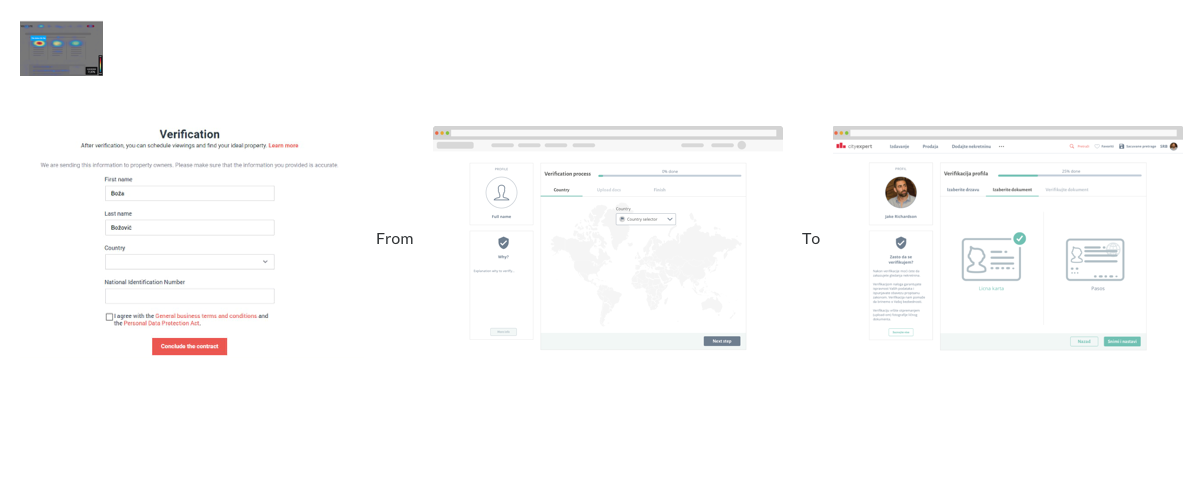
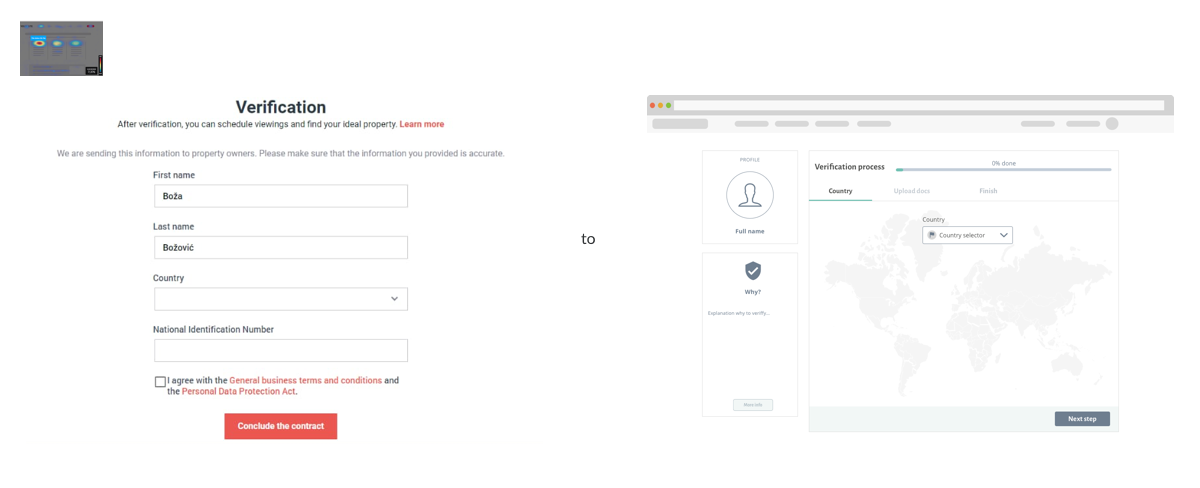
Update

diff --git a/src/pages/index.js b/src/pages/index.js
@@ -47,8 +47,8 @@ const IndexPage = () => (
 
       <Project
           image={require('../images/DSinFigma.png')}
-          title="Design System is moved to Figma"
-          subtitle="Our team becomes international, spreanding on 3 continents and including 3 more products. We decided that in time of merger the best tool for collaboration and remote work would be Figma. I've ported the design system to Figma with the organization of the projects and features in the tools."
+          title="Design System is transalted to Figma"
+          subtitle="Our team becomes international, spreanding on 3 continents and including 3 more products. Currently working on a brand new stuff that will be a northStar for rest of the products. I've ported the design system to Figma with the organization of the projects and features in the tools."
           button="Coming soon"
           link="/"
           target="_self"/>
@@ -56,7 +56,7 @@ const IndexPage = () => (
         <Project
           image={require('../images/xebialabs.png')}
           title="XebiaLabs, Hilversum"
-          subtitle="For the past 2 years, I was working with XebiaLabs on XL Release and XL Deploy DevOps products. That employment helped me grow and become better UX researcher, designer and more valuable team member."
+          subtitle="For the past 2 years, I was working with XebiaLabs on XL Release and XL Deploy DevOps at scale products. Take a peek at couple of improvments that took place inside of XebiLabs and my approach in solving challanges."
           button="Find out more"
           link="/XebiaLabs"
           target="_self"/>
@@ -72,7 +72,7 @@ const IndexPage = () => (
         <Project
           image={require('../images/CityExpert.png')}
           title="CityExpert, Belgrade"
-          subtitle="I was working with CityExpert Serbian startup as UI/UX designer and consultant. City Expert is online real-estate agency from Belgrade. It was a great experience to use a data-driven approach in user testing!"
+          subtitle="I was working with CityExpert Serbian startup as UI/UX designer and consultant. City Expert is online real-estate agency from Belgrade. It was a great experience to use a data-driven approach in user testing ans set in stone their design language!"
           button="Find out more"
           link="/CityExpert"
           target="_self"/>
@@ -80,7 +80,7 @@ const IndexPage = () => (
         <Project
           image={require('../images/CONDA.png')}
           title="CONDA, Vienna"
-          subtitle="CONDA is more than a crowd investing platform. CONDA is the connecting link between entrepreneurs and investors based on blockchain technology, and while working with CONDA, I've learned a lot about FinTech."
+          subtitle="CONDA is one more company that I used to work with. Help them standardise components and make 2 great products. Platform and B2B CMS. CONDA is the connecting link between entrepreneurs and investors based on blockchain technology, thanks to CONDA, I've learned a lot about FinTech."
           button="Find out more"
           link="/Conda"
           target="_self"/>

diff --git a/src/pages/CityExpert.js b/src/pages/CityExpert.js
@@ -27,13 +27,13 @@ const CityExper = () => (
     <h4>The solution</h4>
     <p>We took into consideration the responses we received from users and split verification into 2 simple steps. Choosing the country and based on the country provided by users, uploader with specific documents would be rendered by country. Every step is guiding a user with a short explanation of what is necessary actions to complete the step.</p>
     <div id="Images"><img src={require('../images/CE-Verifikacion.png')}/></div>
+    <div id="ImagesFull"><img src={require('../images/VerificationProcessEndResult.png')}/></div>
 
-    <h2>Set up the "Design system"</h2>
-    <h4>1. Redesign and update Design system</h4>
+    <h2>Consistancy accross the portals</h2>
+    <h4>Challenge</h4>
     <p>We needed to work fast, so I have set up the design system (correct name is Pattern library inside of Sketch).</p>
     <div id="Images"><img src={require('../images/CE_Design_System.png')}/></div>
-    <h4>Font pairings</h4>
-    <div id="Images"><img src={require('../images/CEFontPairings.png')}/></div>
+    <div id="Images"><img src={require('../images/CEcolors.png')}/></div>
     
     <h2>Redesigning pages by using new "Design system"</h2>
     <h4>1. Redesign real-estate page</h4>

diff --git a/src/components/Projects/Project.css b/src/components/Projects/Project.css
@@ -67,7 +67,7 @@
     font-weight: 400;
     font-size: 16px;
     z-index: 99;
-    line-height: 1.6;
+    line-height: 1.7;
 }
 
 
